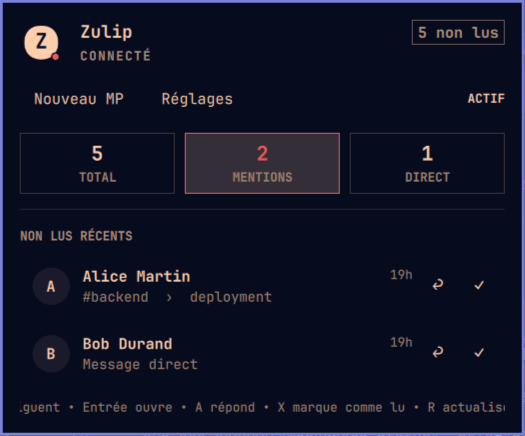
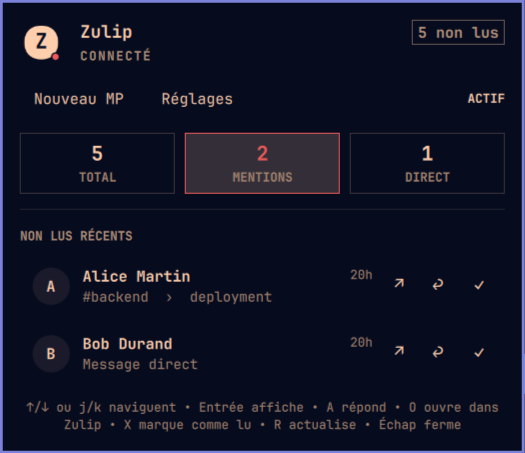
Documenter la mise a jour et rendre la ligne daide lisible
omarchy plugin update ne recharge pas le composant dun widget de barre tant
que lURL du plugin ne change pas : le bridge prend la nouvelle version tout de
suite, linterface seulement apres omarchy-restart-shell. Rien ne le disait, et
la mise a jour paraissait sans effet. Les deux README portent desormais la
procedure complete.

La liste des touches depassait la largeur du panneau depuis lajout de O et se
faisait couper aux deux bouts ; elle passe a la ligne. Apercu regenere avec le
bouton douverture dans Zulip.

diff --git a/plugin/Panel.qml b/plugin/Panel.qml
@@ -1269,6 +1269,9 @@ Panel {
             width: parent.width
             text: root.t("homeHelp")
             textFormat: Text.PlainText
+            // La liste des touches depasse la largeur du panneau : elle doit
+            // passer a la ligne plutot que d etre coupee aux deux bouts.
+            wrapMode: Text.WordWrap
             horizontalAlignment: Text.AlignHCenter
             color: root.dim
             font.family: root.fontFamily

diff --git a/README.fr.md b/README.fr.md
@@ -27,6 +27,18 @@ compte et la clé API. Aucun terminal n’est nécessaire après l’ajout du pl
 Dans **Réglages → Intégration Omarchy**, l’utilisateur peut autoriser
 explicitement `Super+Z` pour le panneau et `Super+Maj+Z` pour le workspace.
 
+## Mise à jour
+
+```sh
+omarchy plugin update io.github.valentin-briez-banuls.zulip-hub
+omarchy-restart-shell
+```
+
+Le redémarrage n'est pas facultatif. Le bridge prend la nouvelle version
+immédiatement, mais Omarchy conserve le composant déjà chargé d'un widget de
+barre tant que l'URL du plugin ne change pas : l'interface ne change donc
+qu'après le redémarrage du shell.
+
 ## Utilisation au clavier
 
 - `Tab`, flèches ou `j` / `k` : naviguer ;

diff --git a/README.md b/README.md
@@ -39,6 +39,17 @@ The optional **Omarchy integration** control in Settings adds:
 The control changes only the user-owned Hyprland configuration under
 `~/.config/hypr/` after explicit activation.
 
+## Update
+
+```sh
+omarchy plugin update io.github.valentin-briez-banuls.zulip-hub
+omarchy-restart-shell
+```
+
+The restart is not optional. The bridge picks up a new version straight away,
+but Omarchy keeps a bar widget's loaded component when the plugin URL has not
+changed, so the interface only changes once the shell restarts.
+
 ## Keyboard controls
 
 - `Tab`, arrows, or `j` / `k` — navigate

diff --git a/CHANGELOG.md b/CHANGELOG.md
@@ -1,5 +1,14 @@
 # Historique des versions
 
+## 2.2.1 — 2026-09-02
+
+- La liste des touches passe à la ligne au lieu d'être coupée aux deux bouts :
+  elle dépassait la largeur du panneau depuis l'ajout de `O`.
+- Procédure de mise à jour documentée. `omarchy plugin update` ne recharge pas
+  le composant du widget tant que l'URL du plugin ne change pas : le bridge
+  prend la nouvelle version tout de suite, l'interface seulement après un
+  `omarchy-restart-shell`.
+
 ## 2.2.0 — 2026-09-02
 
 - `Entrée` affiche désormais le message dans le panneau au lieu d'ouvrir la
